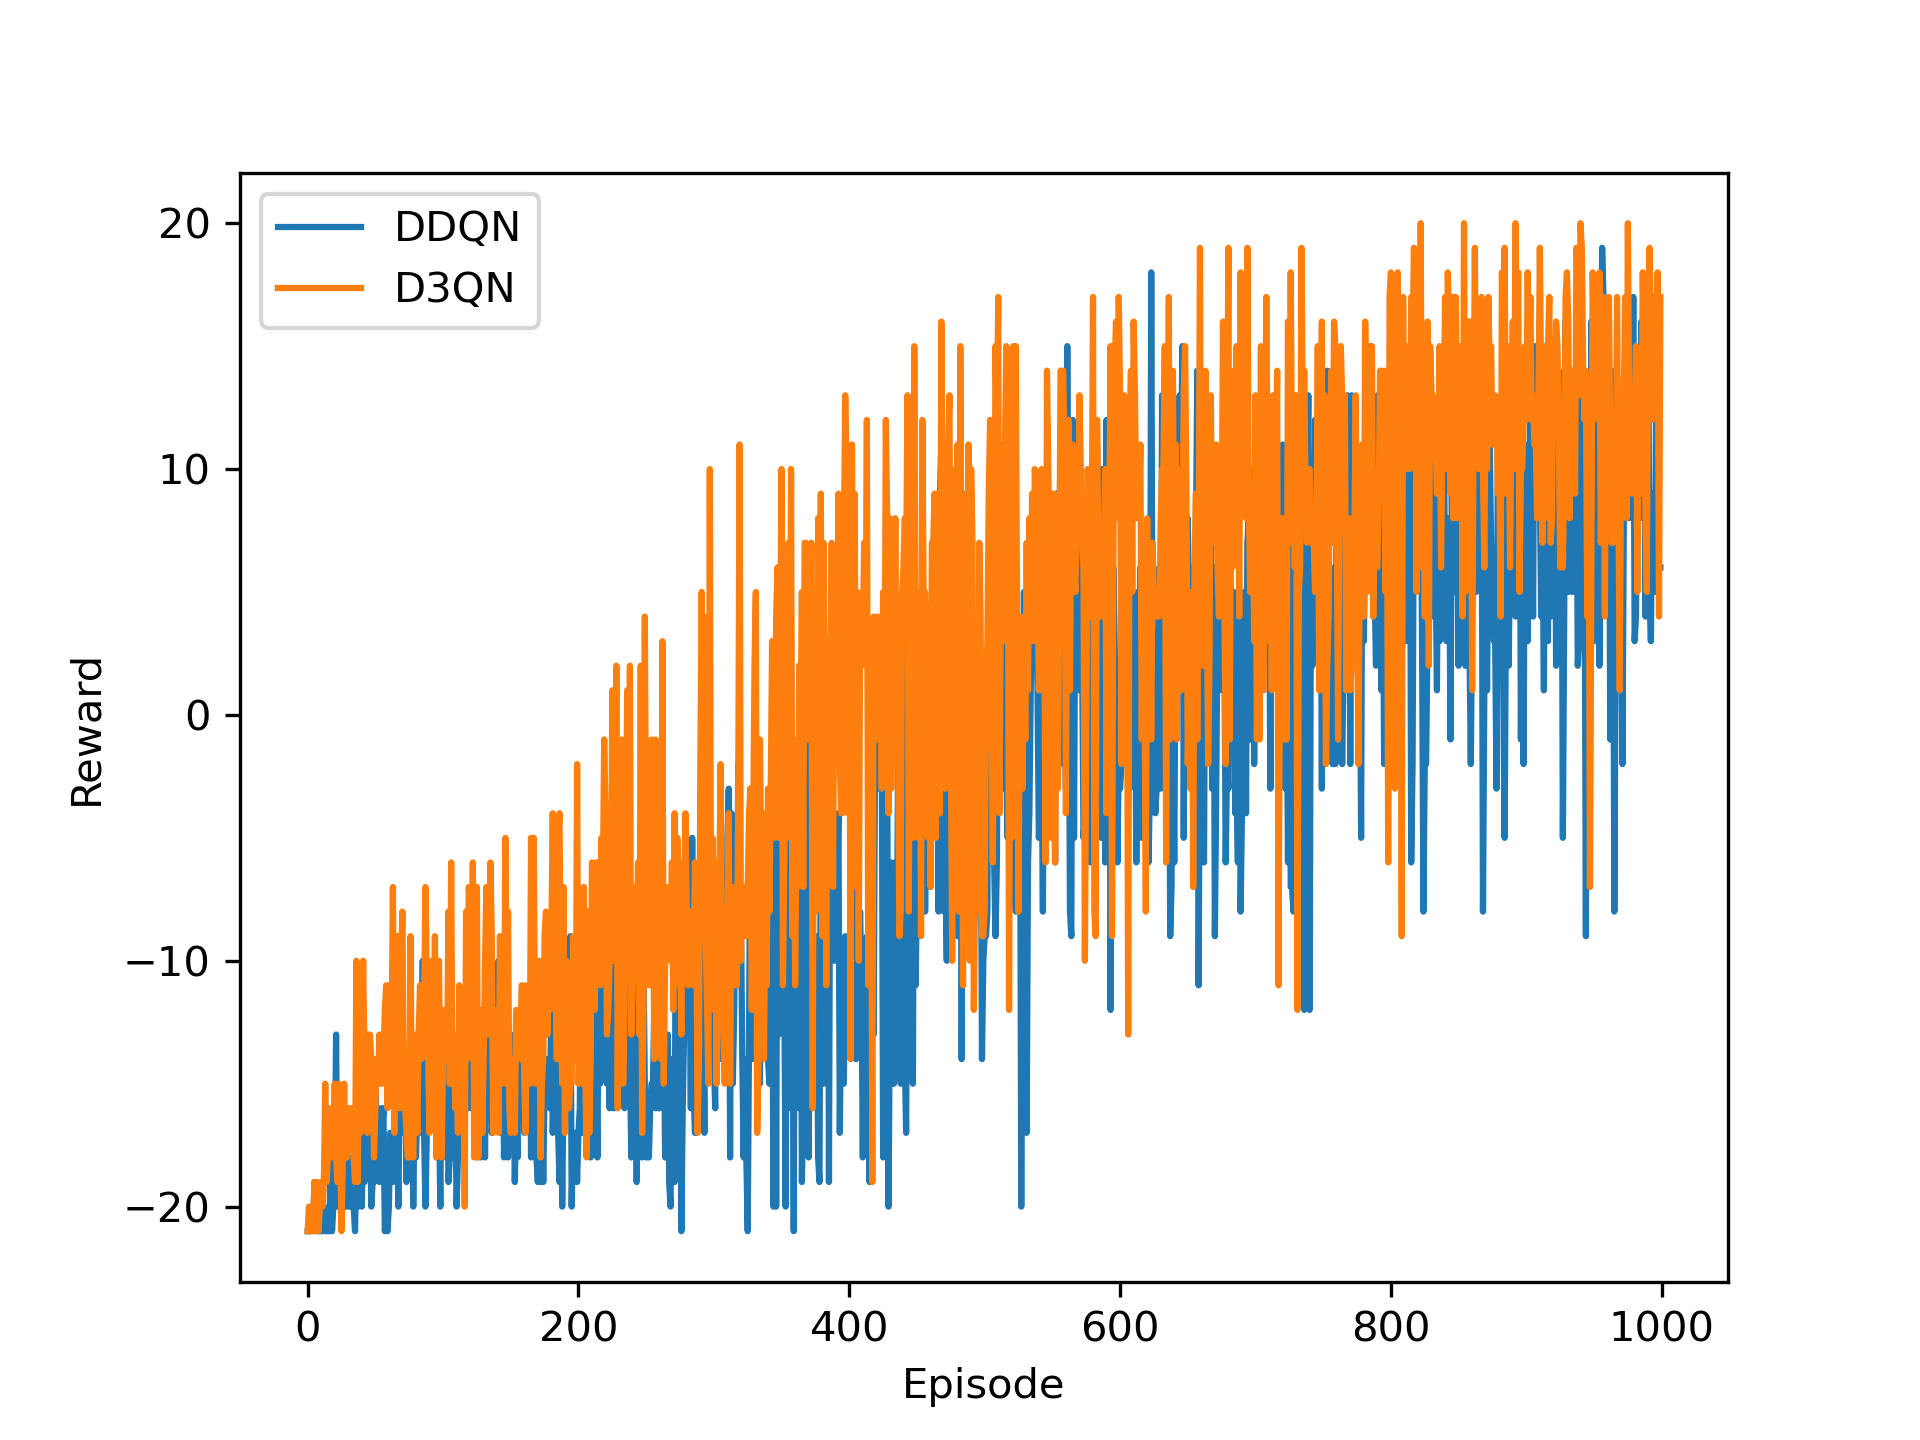
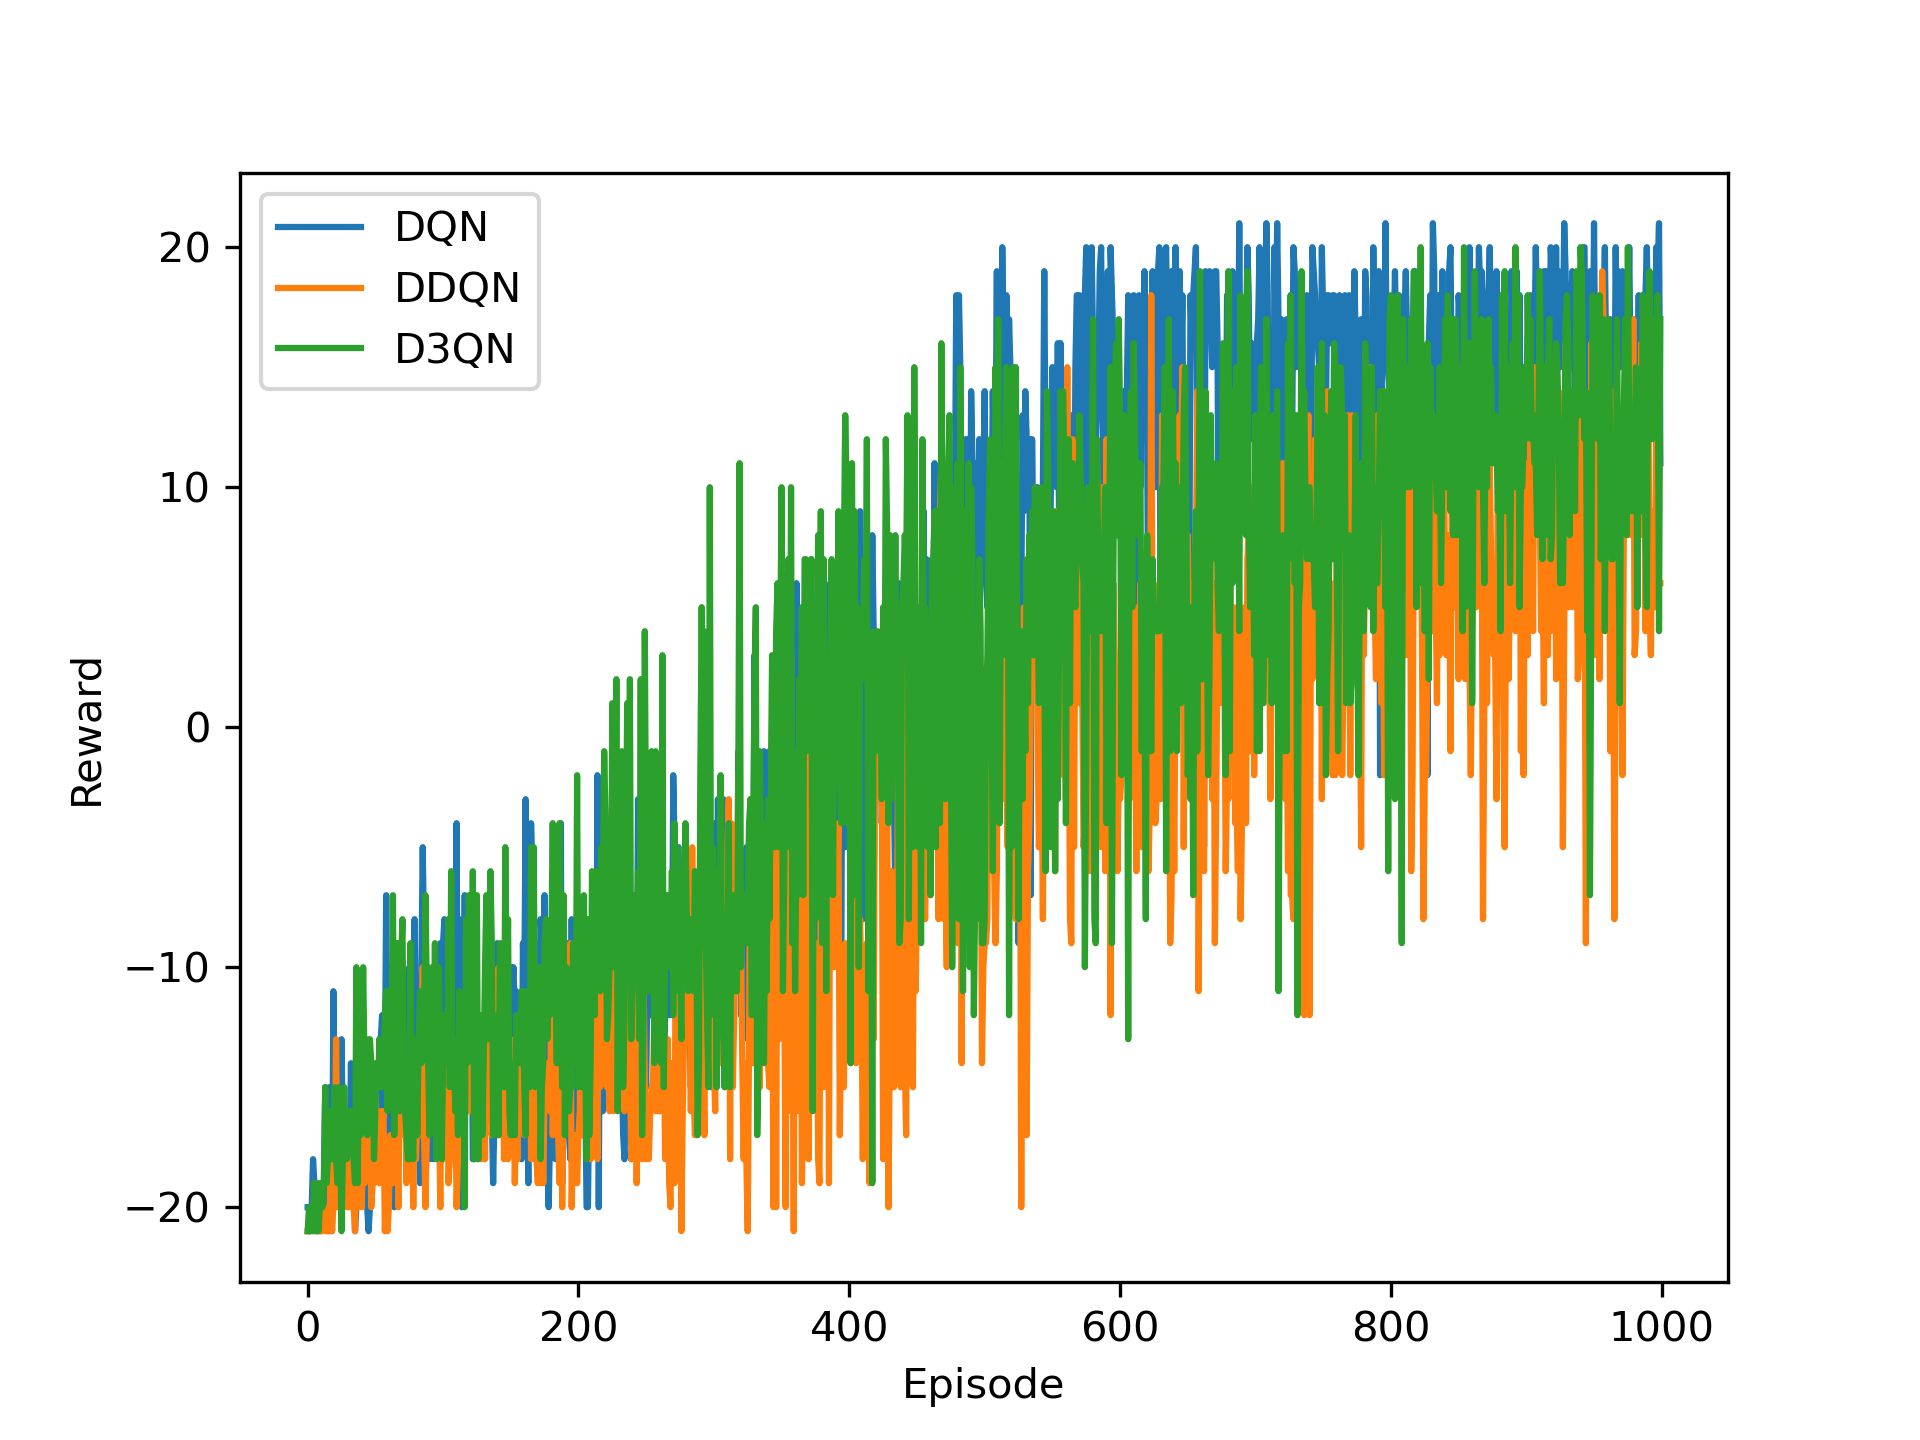
update

diff --git a/Project/out/images/PongNoFrameskip-v4/plot.py b/Project/out/images/PongNoFrameskip-v4/plot.py
@@ -3,10 +3,10 @@ import matplotlib.pyplot as plt
 
 if __name__ == '__main__':
     plt.figure(dpi=300)
-    # rewards_dqn = np.load('./out/datas/PongNoFrameskip-v4/dqn.npy')
+    rewards_dqn = np.load('./out/datas/PongNoFrameskip-v4/dqn.npy')
     rewards_ddqn = np.load('./out/datas/PongNoFrameskip-v4/ddqn.npy')
     rewards_d3qn = np.load('./out/datas/PongNoFrameskip-v4/d3qn.npy')
-    # plt.plot(rewards_dqn, label='DQN')
+    plt.plot(rewards_dqn, label='DQN')
     plt.plot(rewards_ddqn, label='DDQN')
     plt.plot(rewards_d3qn, label='D3QN')
     plt.xlabel('Episode')
